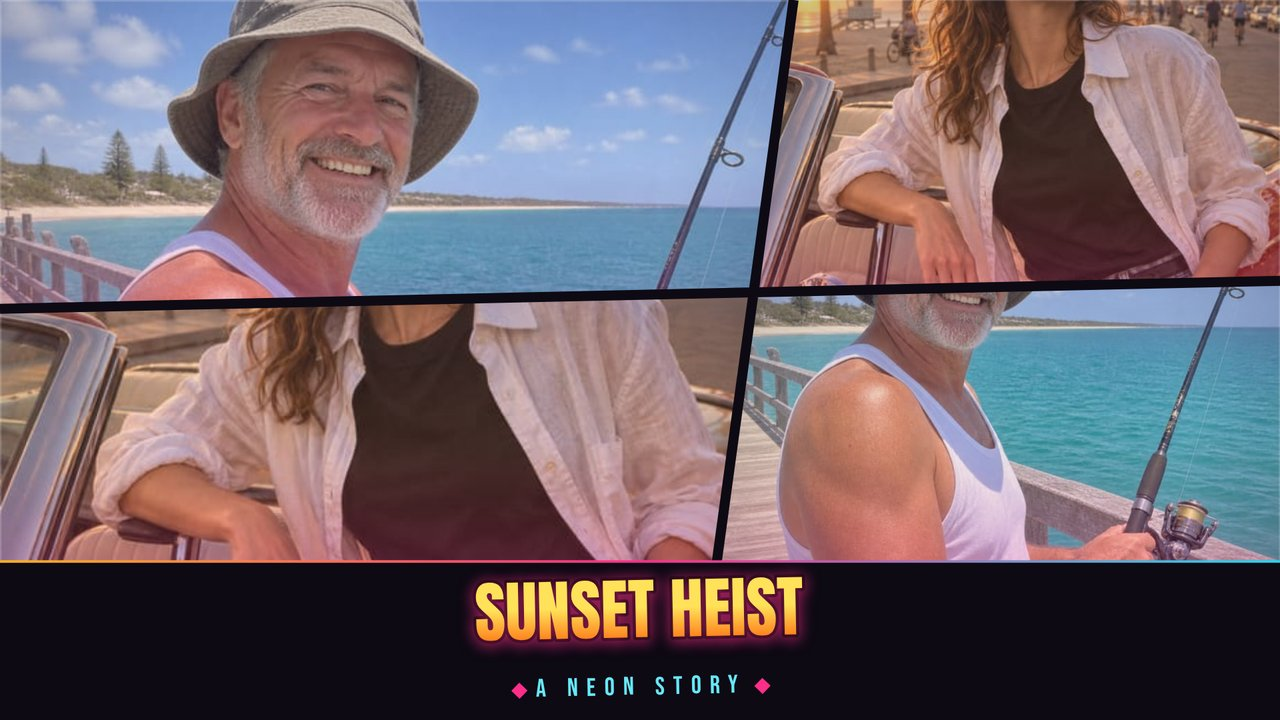
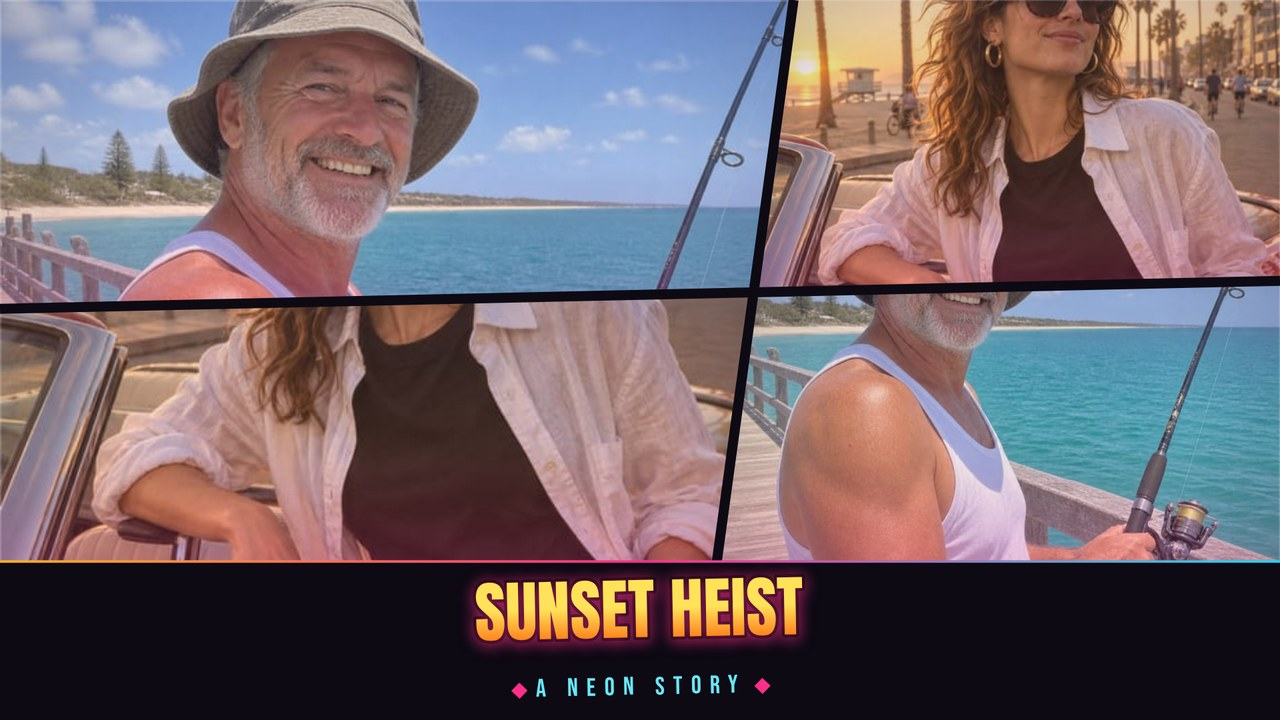
Rebuild Neon Panels in recorded session: multi-panel GTA-style cover maker
Rewrite every final file under the live recording (recording 2):
app/index.html, style.css, src/cover.js (4 slanted panels, sunset/neon
grade, gradient Anton caption + Bebas Neue tagline), src/main.js (upload,
per-panel crop/position, export 1080x1080/1080x1350/1920x1080), src/shots.js
(hero + top-right panel offsets from visual review), main.ts (copy
verification + buildDossier), README.md, shots.json. Fonts re-downloaded
from google/fonts (Anton + Bebas Neue, OFL). Screenshots regenerated via
Playwright: 1-cover.jpg (exported 1920x1080), 2-editor.jpg (editor with
photo loaded), 3-cover.jpg (exported 1080x1350).

Changed region(s): [[0.5938, 0.0, 1.0, 0.3972]]

diff --git a/main.ts b/main.ts
@@ -1,11 +1,10 @@
 // A working gta6-cover-art-01 entry (Node 22, standard library only): the app is this directory's app/ folder, plain
 // static files a desktop browser loads offline (app/index.html and its ES modules, no library and no network
 // request), and the program hands it in. It copies app/ and screenshots/ from beside this file to /output and writes
-// /output/dossier.json, the summary the judge reads, with the vendored make.fun library. Only the plumbing, not the
-// cover art the bounty asks for: Cover Snap, a plain one-photo square cover with a sunset tint and a bold caption,
-// exported as a 1080 x 1080 PNG. Its two sample photos (app/samples/) were made for make.fun with an image model and
-// are free to use. Build your own GTA-style cover maker in its place, put your 3 or 4 PNG or JPEG screenshots in
-// screenshots/ (the first by name is the cover) and run it.
+// /output/dossier.json, the summary the judge reads, with the vendored make.fun library. The app is Neon Panels:
+// a GTA-style multi-panel cover maker — four photo panels split by slanted gutters, a sunset/neon grade, bold
+// gradient caption lettering, crop and position per panel, exports in 1080x1080, 1080x1350 and 1920x1080.
+// Its two sample photos (app/samples/) were made for make.fun with an image model and are free to use.
 //
 // Serve it locally with `node serve.ts`, then open http://localhost:8080.
 // Outside the grader's container, MAKEFUN_OUTPUT_DIR stands in for /output:

diff --git a/app/src/shots.js b/app/src/shots.js
@@ -18,7 +18,9 @@ export async function runShot(shot, query, api) {
   // Nudge the hero photo toward its top, so a face near the top of a square photo still shows
   // in the wide hero panel; the renderer's clamp keeps it safe at every size.
   api.setPanel(0, hero, 0, 0.6);
-  api.setPanel(1, alt);
+  // The top-right panel is short, so the alt photo's subject (a face near the top of the
+  // square sample) is cut off without a nudge down; the renderer's clamp keeps it safe.
+  api.setPanel(1, alt, 0, 0.25);
   api.setPanel(2, alt);
   api.setPanel(3, hero);
   api.setCaption(caption);
